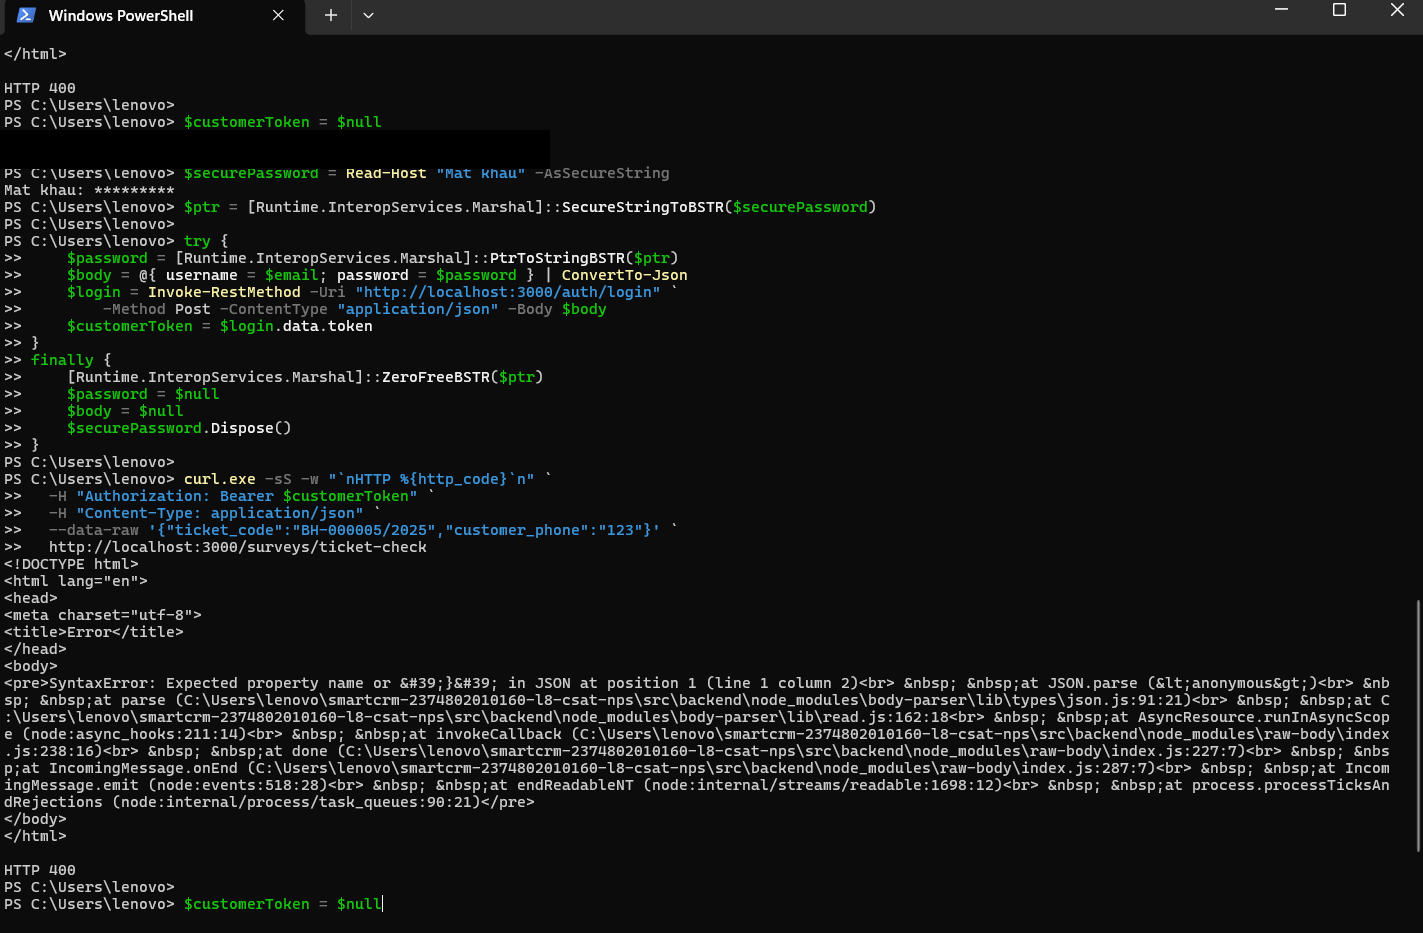
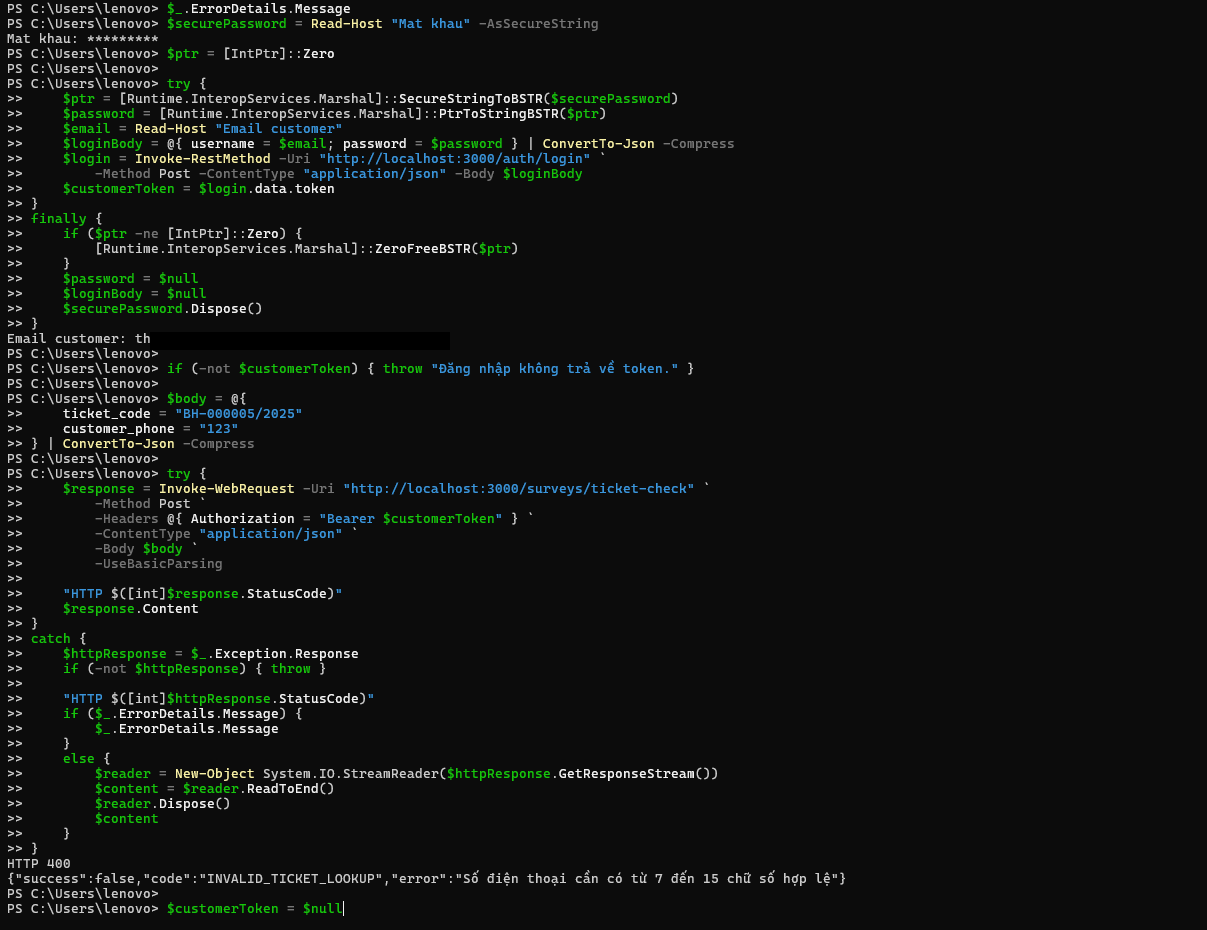
docs: update TC-07 and TC-08 evidence

Changed region(s): [[0.0, 0.0, 1.0, 0.9978], [0.5518, 0.9355, 0.7051, 0.9667], [0.3372, 0.9355, 0.4905, 0.9667]]

diff --git a/docs/test-report.md b/docs/test-report.md
@@ -5,10 +5,10 @@
 
 ## Tóm tắt kết quả kiểm thử hệ thống
 
-- **Đã chạy và có kết quả:** 9/12 ca · **PASS:** 8 · **FAIL:** 1.
+- **Đã chạy và có kết quả:** 9/12 ca · **PASS:** 9 · **FAIL:** 0.
 - **Chưa xác minh/chưa chạy đúng ca:** TC-02, TC-03, TC-12.
-- **Ảnh kết quả:** [docs/screenshots/](screenshots/). Ảnh TC-07 hiện trong repo ghi nhận lượt cũ gửi JSON sai cú pháp; ảnh chụp lần chạy hợp lệ mới cần được bổ sung. Email tài khoản đã được che trên ảnh TC-07, TC-08 và TC-09.
-- PASS/FAIL dưới đây là kết quả quan sát được, không tự suy diễn thành bug ứng dụng. TC-07 đã chạy lại với JSON hợp lệ; TC-08 vẫn cần chạy lại với JSON hợp lệ.
+- **Ảnh kết quả:** [docs/screenshots/](screenshots/). Đã cập nhật ảnh TC-07 và TC-08 để ghi nhận lượt chạy PASS mới; thông tin email đã được che.
+- PASS/FAIL dưới đây là kết quả quan sát được, không tự suy diễn thành bug ứng dụng. TC-07 và TC-08 đã được chạy lại bằng JSON hợp lệ.
 
 | ID | Kết quả | Thực tế quan sát | Minh chứng |
 |---|---|---|---|
@@ -18,8 +18,8 @@
 | TC-04 | PASS | `GET /surveys` không có token trả HTTP 401 Unauthorized. | [TC-04.png](screenshots/TC-04.png) |
 | TC-05 | PASS | Tài khoản customer gọi `/surveys` và `/surveys/stats`; cả hai trả HTTP 403 và thông báo không có quyền xem dữ liệu nội bộ. | [TC-05.png](screenshots/TC-05.png) |
 | TC-06 | PASS | Tra phiếu `BH-000005/2025` với số điện thoại đã đăng ký; giao diện báo tìm thấy phiếu và cho phép gửi đánh giá. | [TC-06.png](screenshots/TC-06.png) |
-| TC-07 | PASS — ảnh mới cần bổ sung | Chạy lại với JSON hợp lệ, mã phiếu `BH-000005/2025` và số điện thoại `123`; HTTP 400, mã `INVALID_TICKET_LOOKUP`, thông báo “Số điện thoại cần có từ 7 đến 15 chữ số hợp lệ”. Kết quả được xác nhận từ output PowerShell người dùng cung cấp; ảnh `TC-07.png` hiện có chỉ là lượt cũ sai cú pháp, không dùng làm minh chứng cho lần PASS này. | Ảnh lần chạy mới chưa có |
-| TC-08 | FAIL — cần chạy lại | Lượt thử trả HTTP 400 thay vì HTTP 404 mong đợi; request cũng sai cú pháp JSON nên chưa xác minh được trường hợp số điện thoại không khớp. | [TC-08.png](screenshots/TC-08.png) |
+| TC-07 | PASS | Chạy lại với JSON hợp lệ, mã phiếu `BH-000005/2025` và số điện thoại `123`; HTTP 400, mã `INVALID_TICKET_LOOKUP`, thông báo “Số điện thoại cần có từ 7 đến 15 chữ số hợp lệ”. Ảnh lượt PASS mới đã được lưu; email đã che. | [TC-07.png](screenshots/TC-07.png) |
+| TC-08 | PASS | Chạy với JSON hợp lệ, mã phiếu `BH-000005/2025` và số điện thoại hợp lệ không khớp `0901234567`; HTTP 404, mã `TICKET_NOT_FOUND`, thông báo “Không tìm thấy phiếu đã hoàn tất khớp với mã phiếu và số điện thoại”. | [TC-08.png](screenshots/TC-08.png) |
 | TC-09 | PASS | Gửi đánh giá hợp lệ cho `BH-000005/2025`; HTTP 201, CSAT=3, NPS=7. | [TC-09.png](screenshots/TC-09.png) |
 | TC-10 | PASS | Hai giá trị biên đều thành công: CSAT=1/NPS=0 và CSAT=5/NPS=10; cả hai trả HTTP 201. | [TC-10.png](screenshots/TC-10.png) |
 | TC-11 | PASS | Sáu payload sai (CSAT 0, 6, chuỗi; NPS -1, 11, số thập phân) đều trả HTTP 400. | [TC-11.png](screenshots/TC-11.png) |
@@ -29,10 +29,10 @@
 
 - **Luồng đúng:** Có — TC-01, TC-06, TC-09.
 - **Biên:** Có — TC-10.
-- **Dữ liệu sai:** Có — TC-07 và TC-11; TC-08 cần chạy lại với request JSON hợp lệ.
+- **Dữ liệu sai:** Có — TC-07, TC-08 và TC-11.
 - **Bảo mật/chất lượng dữ liệu:** Có — TC-04/05 và kiểm tra payload khảo sát TC-09/11.
 - **Tái lập:** Chưa — TC-12 chưa chạy. Tổng cộng có minh chứng cho 4/5 loại.
-- **Toàn bộ test PASS bằng một lệnh sau khi sửa bug Buổi 14:** Chưa; TC-08 chưa đạt kết quả mong đợi, TC-07 cần bổ sung ảnh cho lượt chạy hợp lệ và chưa có bug Buổi 14 được xác nhận/sửa.
+- **Toàn bộ test PASS bằng một lệnh sau khi sửa bug Buổi 14:** Chưa xác nhận; TC-02, TC-03, TC-12 chưa chạy và chưa có bug Buổi 14 được xác nhận/sửa.
 - **CI:** Chưa làm.
 
 ## Suite tự động hiện có

diff --git a/docs/minh-chung-buoi-14.md b/docs/minh-chung-buoi-14.md
@@ -11,20 +11,20 @@
 3. **Test Plan:** [docs/test-plan.md](test-plan.md).
 
 4. **Test Report:** [docs/test-report.md](test-report.md)
-   - Số test case hệ thống đã chạy và có kết quả: **9/12** / PASS: **8** / FAIL: **1**.
+   - Số test case hệ thống đã chạy và có kết quả: **9/12** / PASS: **9** / FAIL: **0**.
    - Đủ 5 loại: **Chưa** — có minh chứng cho 4/5 loại; còn thiếu **tái lập (TC-12)**.
-   - Ảnh chụp kết quả: [docs/screenshots/](screenshots/). Có ảnh cho TC-01, TC-04 đến TC-11; ảnh TC-07 hiện tại là lượt cũ gửi JSON sai cú pháp, cần thay bằng ảnh lần chạy PASS mới. Email đã được che ở ảnh TC-07, TC-08 và TC-09.
+   - Ảnh chụp kết quả: [docs/screenshots/](screenshots/). Có ảnh cho TC-01, TC-04 đến TC-11; ảnh TC-07 và TC-08 đã cập nhật lượt PASS mới, thông tin email đã được che.
 
 5. **Bug Log:** [docs/bug-log.md](bug-log.md)
    - BUG-01 · Chưa phân loại trong Bug Log hiện có · API xác thực miền/kiểu điểm khảo sát · [commit 4f9b3ed](https://github.com/dangquochung-vivi/smartcrm-2374802010160-l8-csat-nps/commit/4f9b3ed95d8b83597710863717c7cb4def172888). Commit chứa nhiều thay đổi, không phải commit riêng cho bug.
    - BUG-02 · Chưa xác nhận bug Buổi 14 được tái lập/sửa · Chưa có commit.
    - BUG-03 · Chưa xác nhận bug Buổi 14 được tái lập/sửa · Chưa có commit.
 
-   TC-07 đã PASS khi chạy lại bằng JSON hợp lệ (HTTP 400, `INVALID_TICKET_LOOKUP`, lỗi định dạng số điện thoại). TC-08 vẫn cần chạy lại bằng JSON hợp lệ. Không tạo bug hoặc commit giả.
+   TC-07 PASS với JSON hợp lệ (HTTP 400, `INVALID_TICKET_LOOKUP`, lỗi định dạng số điện thoại). TC-08 cũng PASS với JSON hợp lệ (HTTP 404, `TICKET_NOT_FOUND`, số điện thoại không khớp). Không tạo bug hoặc commit giả.
 
-6. **Toàn bộ test PASS bằng một lệnh sau khi sửa bug:** **Chưa** — TC-08 chưa đạt kết quả mong đợi, TC-12 chưa chạy và chưa có lượt chạy lại sau khi sửa bug Buổi 14. Cần bổ sung ảnh minh chứng cho lượt TC-07 PASS.
+6. **Toàn bộ test PASS bằng một lệnh sau khi sửa bug:** **Chưa xác nhận** — TC-02, TC-03 và TC-12 chưa chạy; chưa có bug Buổi 14 được xác nhận/sửa.
    **CI:** Chưa làm.
 
 7. **Việc còn lại trước hạn BT3:**
-   - Chụp ảnh lượt TC-07 PASS mới; chạy lại TC-08 bằng JSON hợp lệ; chạy TC-02, TC-03 và TC-12, chụp ảnh kết quả thật.
+   - Chạy TC-02, TC-03 và TC-12, chụp ảnh kết quả thật.
    - Chỉ ghi nhận/sửa bug sau khi tái lập; hoàn thiện tài liệu BT3, tự xác nhận khai báo AI và kiểm tra link công khai ở cửa sổ ẩn danh.
